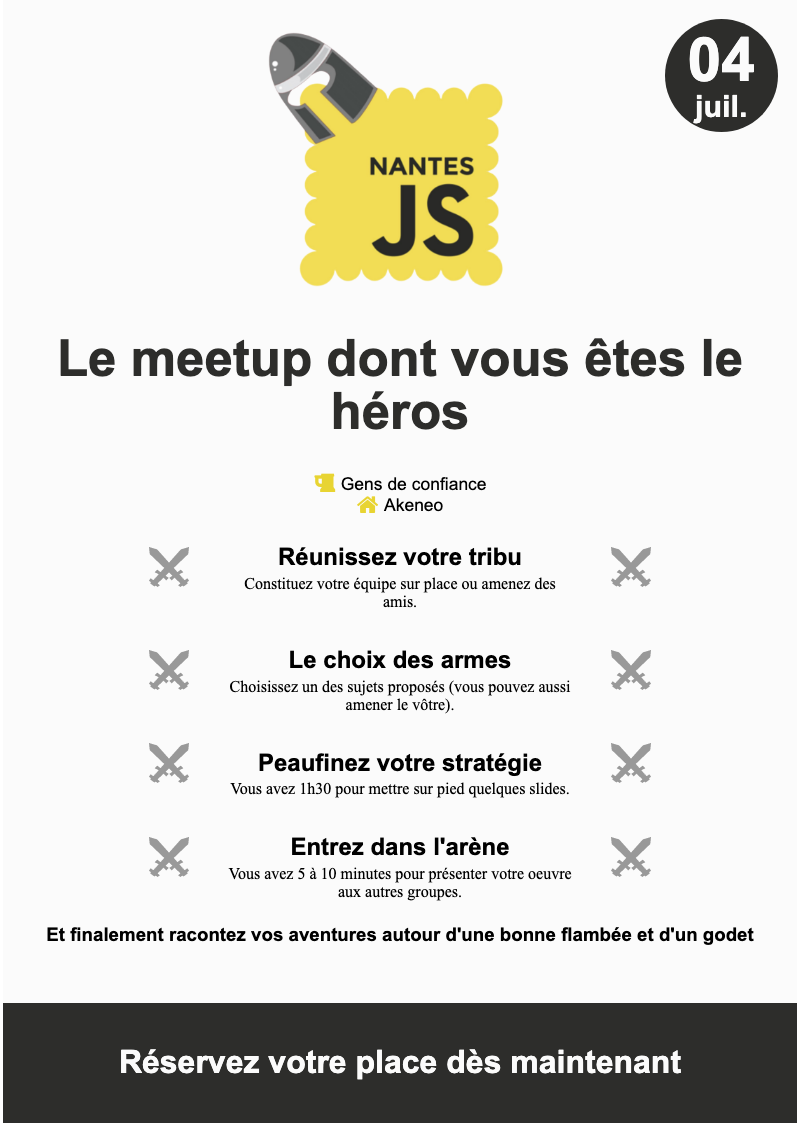
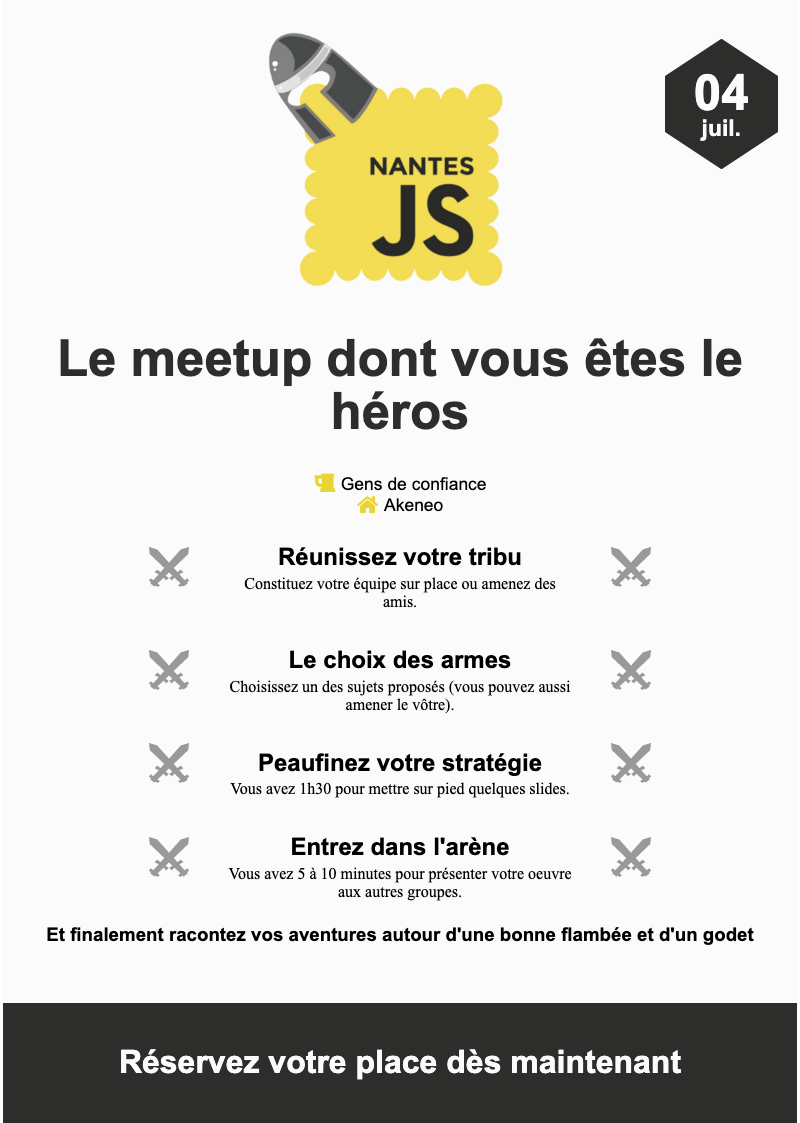
:lipstick: Put the date in a d20 for hero template

Changed region(s): [[0.8125, 0.0, 0.9688, 0.1558]]

diff --git a/src/templates/meetup-hero-poster.html b/src/templates/meetup-hero-poster.html
@@ -38,27 +38,49 @@
       }
       .date {
         width: 3cm;
-        height: 3cm;
-        border-radius: 3cm;
+        height: 1.5cm;
         background-color: #2d2d2b;
         position: absolute;
         right: 0.5cm;
-        top: 0.5cm;
-        display: flex;
-        flex-direction: column;
-        align-items: center;
-        justify-content: center;
+        top: 2cm;
         color: #fbfbfb;
         font-family: 'Roboto Condensed', sans-serif;
         font-weight: 700;
       }
+      .date::before {
+        content: ' ';
+        border-left: 1.5cm solid transparent;
+        border-right: 1.5cm solid transparent;
+        border-bottom: 1cm solid #2d2d2b;
+        position: absolute;
+        top: -1cm;
+      }
+      .date::after {
+        content: ' ';
+        border-left: 1.5cm solid transparent;
+        border-right: 1.5cm solid transparent;
+        border-top: 1cm solid #2d2d2b;
+        position: absolute;
+        top: 1.5cm;
+      }
+      .date .content {
+        position: absolute;
+        z-index: 1;
+        display: flex;
+        flex-direction: column;
+        align-items: center;
+        justify-content: center;
+        width: 100%;
+        top: 0;
+        bottom: 0;
+      }
       #day {
-        font-size: 16.08mm;
-        line-height: 16.08mm;
+        font-size: 13.08mm;
+        line-height: 13.08mm;
       }
       #month {
-        font-size: 8.04mm;
-        line-height: 8.04mm;
+        font-size: 6.04mm;
+        line-height: 6.04mm;
       }
       h1 {
         height: 25.4mm;
@@ -153,8 +175,10 @@
     <main id="affiche" class="page">
       <header>
         <div class="date">
-          <span id="day">{{day}}</span>
-          <span id="month">{{month}}</span>
+          <div class="content">
+            <span id="day">{{day}}</span>
+            <span id="month">{{month}}</span>
+          </div>
         </div>
         <img src={{logo}} alt="Logo de NantesJS">
       </header>
